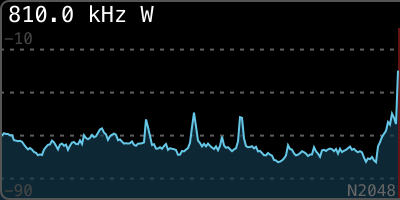
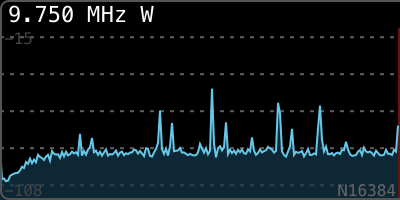
docs: current captures of the live deck panels
The four-panel composite, the FFT dial, the LCDX2 pair and the master-OFF
composite are captured again from the Stream Deck + on shortwave around
9.75 MHz. The offline copy no longer claims the 7-seg keeps the last
frequency on master OFF: it shows dashes, since the plugin lets go of the
device. The Host value on the Volume panel is blanked.

diff --git a/docs/dial-layouts.md b/docs/dial-layouts.md
@@ -6,7 +6,7 @@ Each registered Stream Deck action — encoder dials, the existing keypad button
 
 ## Offline / disconnected state
 
-When the SpyServer connection drops (cable pull, server reboot), every dial dims and signals `OFFLINE`: the Tune dial swaps its 7-seg digits for dashes and prefixes the header with `LINK` (last station name kept so the user can see what they were on). Master OFF (2 s long-press) renders the same `OFFLINE` panels but prefixes the Tune header with `OFF` and keeps the last freq on the 7-seg. In both cases the Status panel drops the red `ONLINE` tally to plain `OFFLINE` and the meters fall to zero / `-`. State cache (Host, Dev, AOut, last freq + mode) is preserved so the reconnect is seamless — the plugin auto-reconnects (or master ON), all values snap back.
+When the SpyServer connection drops (cable pull, server reboot), every dial dims and signals `OFFLINE`: the Tune dial swaps its 7-seg digits for dashes and prefixes the header with `LINK` (last station name kept so the user can see what they were on). Master OFF (2 s long-press) renders the same `OFFLINE` panels but prefixes the Tune header with `OFF`; the 7-seg shows dashes there too, since the plugin lets go of the device. In both cases the Status panel drops the red `ONLINE` tally to plain `OFFLINE` and the meters fall to zero / `-`. State cache (Host, Dev, AOut, last freq + mode) is preserved so the reconnect is seamless — the plugin auto-reconnects (or master ON), all values snap back.
 
 ![Deck RX — offline composite (master OFF)](lcd-combined-offline.png)
 
@@ -98,7 +98,7 @@ Pixel → bin map switches automatically between max-hold (when ≥ 1 bin/pixel,
 
 ![FFT Display dial](lcd-fft.png)
 
-Live capture above: TBS Radio (954 kHz) with H mode at 2.5× zoom (±91.2 kHz span) and V at 0.8× of the PI-configured dB range. The strong carrier peak sits exactly on the red VFO crosshair; weaker adjacent-station sidelobes spread to either side. Same dial in V mode would show the orange `[V]` badge instead.
+Live capture above: 9.750 MHz on shortwave, just after NHK Radio Japan had closed for the hour, so nothing sits on the red VFO crosshair; the carriers to either side are other shortwave broadcasters. The dial is in V mode (orange `[V]` badge) with H at 2× zoom (±75.0 kHz span) and V at 1.7× of the PI-configured dB range. In H mode the badge is the cyan `[H]`.
 
 ## Deck RX FFT Display (LCDX2)
 
@@ -132,7 +132,7 @@ VFO crosshair is the red 1-px line; in `single` it sits at the panel centre, in 
 ![FFT Display LCDX2 — left half of pair](lcd-fft-lcdx2-left.png)
 ![FFT Display LCDX2 — right half of pair](lcd-fft-lcdx2-right.png)
 
-Captures above: LCDX2 Wide pair tuned to 810.0 kHz (AM band), zoom 2.5×. The left panel carries the centre freq + `W` mode tag; the right panel carries the `[H]` axis badge + total span `±182.4 kHz` + `2.5x` zoom multiplier + the `N2048` FFT-size indicator. The VFO crosshair (faint red) at each panel's seam edge joins into one continuous mark across the boundary; the outer rounded frame is suppressed on the seam side so the two LCDs read as one wide panel.
+Captures above: LCDX2 Wide pair tuned to 9.750 MHz (shortwave), zoom 1×. The left panel carries the centre freq + `W` mode tag; the right panel carries the `[H]` axis badge + total span `±150.0 kHz`; both carry the dB tick labels and the `N16384` FFT-size indicator. The VFO crosshair (faint red) at each panel's seam edge joins into one continuous mark across the boundary; the outer rounded frame is suppressed on the seam side so the two LCDs read as one wide panel.
 
 ## Deck RX FFT (LCDX2) Control Button
 
